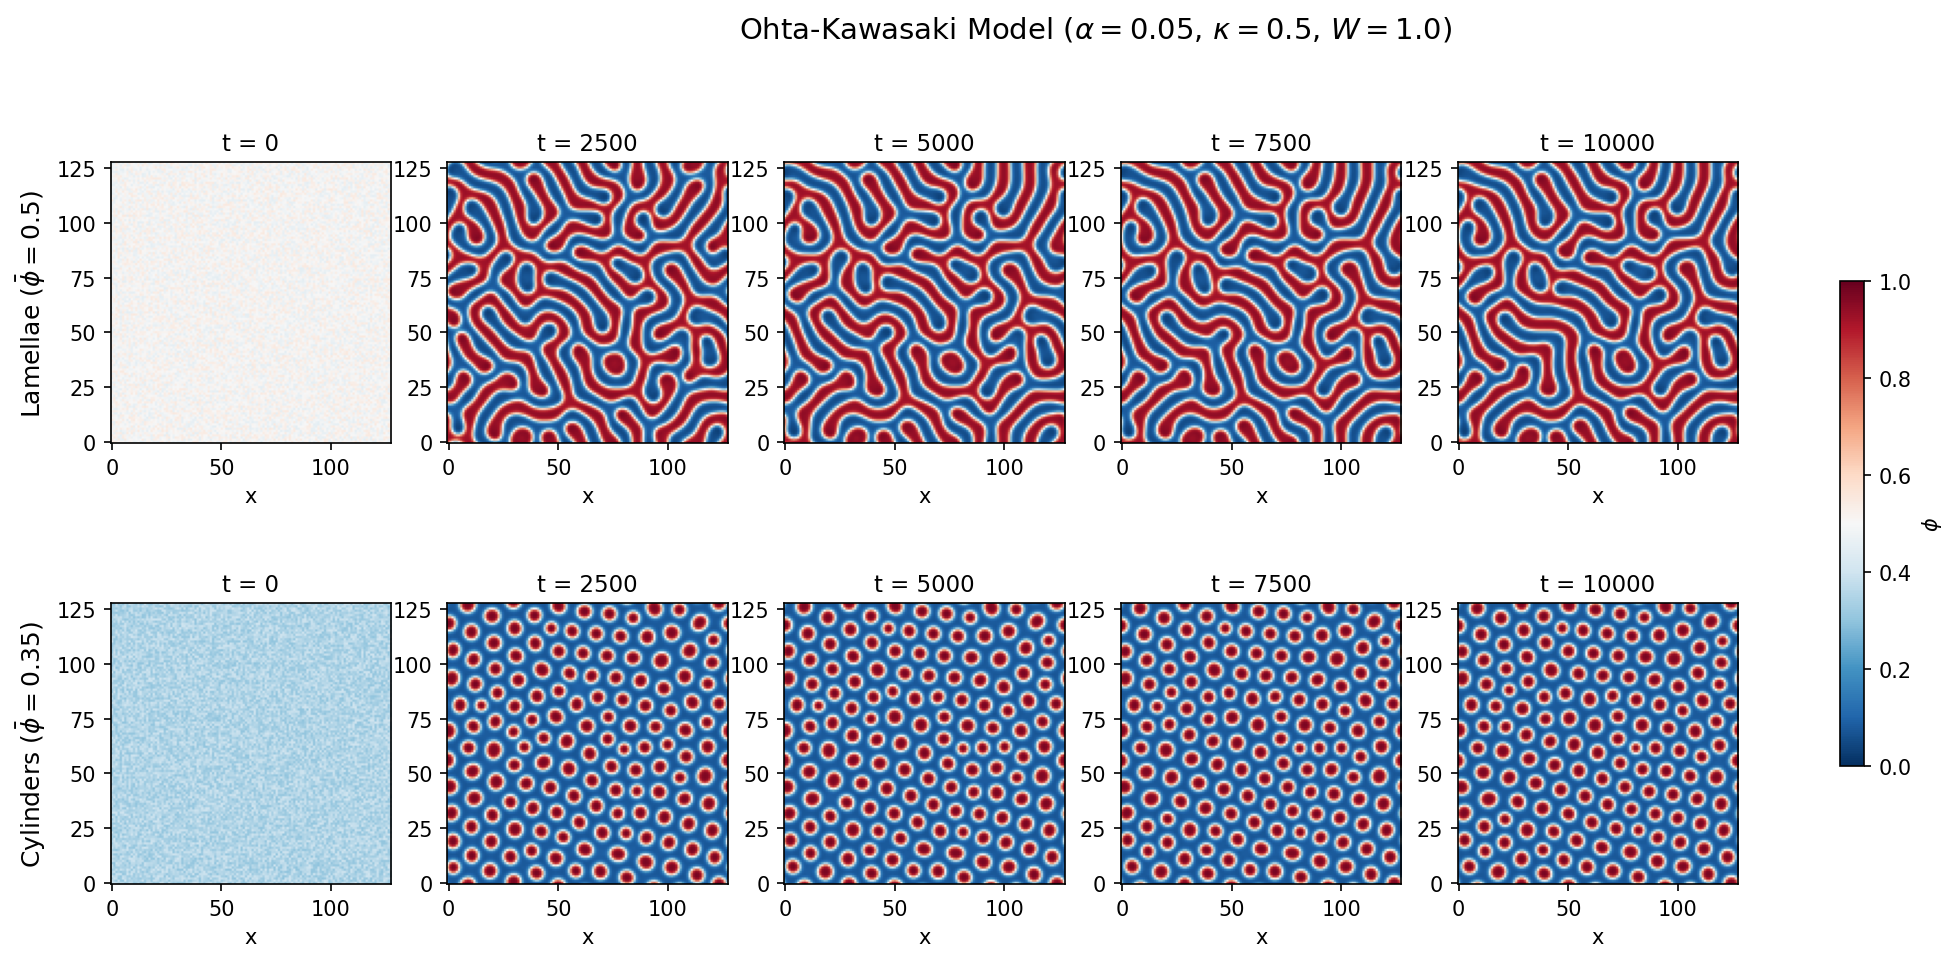
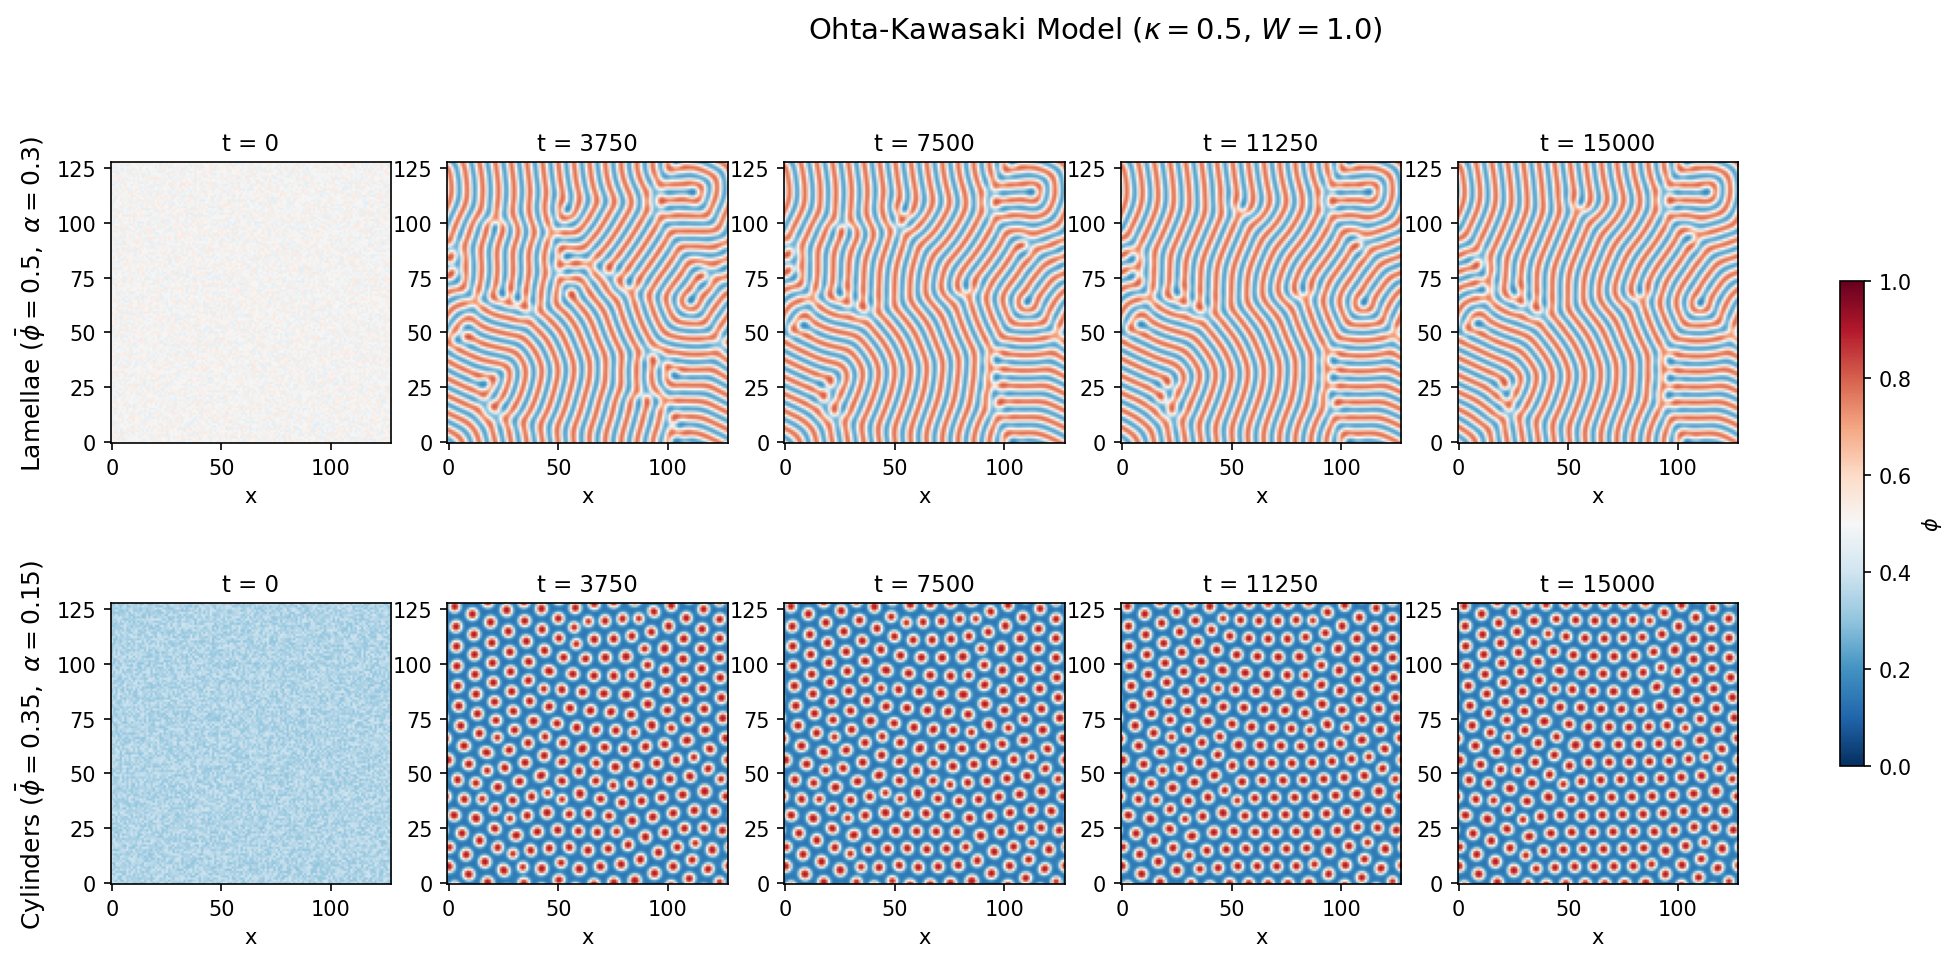
Tune Ohta-Kawasaki parameters for proper lamellar ordering
Increase α to narrow the band of unstable modes:
  - Lamellae (φ̄=0.5):  α 0.05 → 0.30  (band ratio ~1.9x vs ~6.2x)
  - Cylinders (φ̄=0.35): α 0.05 → 0.15
  - Steps: 20000 → 30000 for better annealing

This produces well-ordered stripe (lamellar) and hexagonal dot
(cylindrical) morphologies instead of bicontinuous patterns.

https://claude.ai/code/session_01FZAWaxF8waBSbutsaEw85i

diff --git a/examples/block_copolymer_2d.py b/examples/block_copolymer_2d.py
@@ -30,25 +30,31 @@ def main() -> None:
     N = 128
     params = SimulationParams(shape=(N, N), dx=1.0, dt=0.5, mobility=1.0, kappa=0.5)
 
-    alpha = 0.05
-    n_steps = 20000
-    save_interval = 5000
+    n_steps = 30000
+    save_interval = 7500
+
+    # Larger α narrows the band of unstable modes, enforcing periodic order.
+    #   α_max = |f''(φ̄)|² / (4κ)   [instability threshold]
+    #   φ̄=0.5  → |f''|=1.0,  α_max=0.50  → use α=0.30
+    #   φ̄=0.35 → |f''|=0.73, α_max=0.27  → use α=0.15
+    alpha_lam = 0.30
+    alpha_cyl = 0.15
 
     # --- Lamellae (symmetric, φ̄ = 0.5) ---
-    print("Running lamellae (φ̄ = 0.5) ...")
-    solver_lam, snaps_lam = run_ok(0.5, params, free_energy, alpha, device, n_steps, save_interval)
+    print(f"Running lamellae (φ̄ = 0.5, α = {alpha_lam}) ...")
+    solver_lam, snaps_lam = run_ok(0.5, params, free_energy, alpha_lam, device, n_steps, save_interval)
 
     # --- Cylinders / dots (asymmetric, φ̄ = 0.35) ---
-    print("Running cylinders (φ̄ = 0.35) ...")
-    solver_cyl, snaps_cyl = run_ok(0.35, params, free_energy, alpha, device, n_steps, save_interval)
+    print(f"Running cylinders (φ̄ = 0.35, α = {alpha_cyl}) ...")
+    solver_cyl, snaps_cyl = run_ok(0.35, params, free_energy, alpha_cyl, device, n_steps, save_interval)
 
     # --- Plot ---
     n_cols = len(snaps_lam)
     fig, axes = plt.subplots(2, n_cols, figsize=(3.5 * n_cols, 7))
 
     for row, (solver, snaps, label) in enumerate([
-        (solver_lam, snaps_lam, r"Lamellae ($\bar\phi=0.5$)"),
-        (solver_cyl, snaps_cyl, r"Cylinders ($\bar\phi=0.35$)"),
+        (solver_lam, snaps_lam, rf"Lamellae ($\bar\phi=0.5,\ \alpha={alpha_lam}$)"),
+        (solver_cyl, snaps_cyl, rf"Cylinders ($\bar\phi=0.35,\ \alpha={alpha_cyl}$)"),
     ]):
         for col, (step, phi) in enumerate(snaps):
             ax = axes[row, col]
@@ -60,7 +66,7 @@ def main() -> None:
 
     fig.colorbar(im, ax=axes, label=r"$\phi$", shrink=0.6)
     fig.suptitle(
-        rf"Ohta-Kawasaki Model ($\alpha={alpha}$, $\kappa={params.kappa}$, $W={free_energy.W}$)",
+        rf"Ohta-Kawasaki Model ($\kappa={params.kappa}$, $W={free_energy.W}$)",
         fontsize=14,
     )
     plt.savefig("examples/results/block_copolymer_2d.png", dpi=150, bbox_inches="tight")
